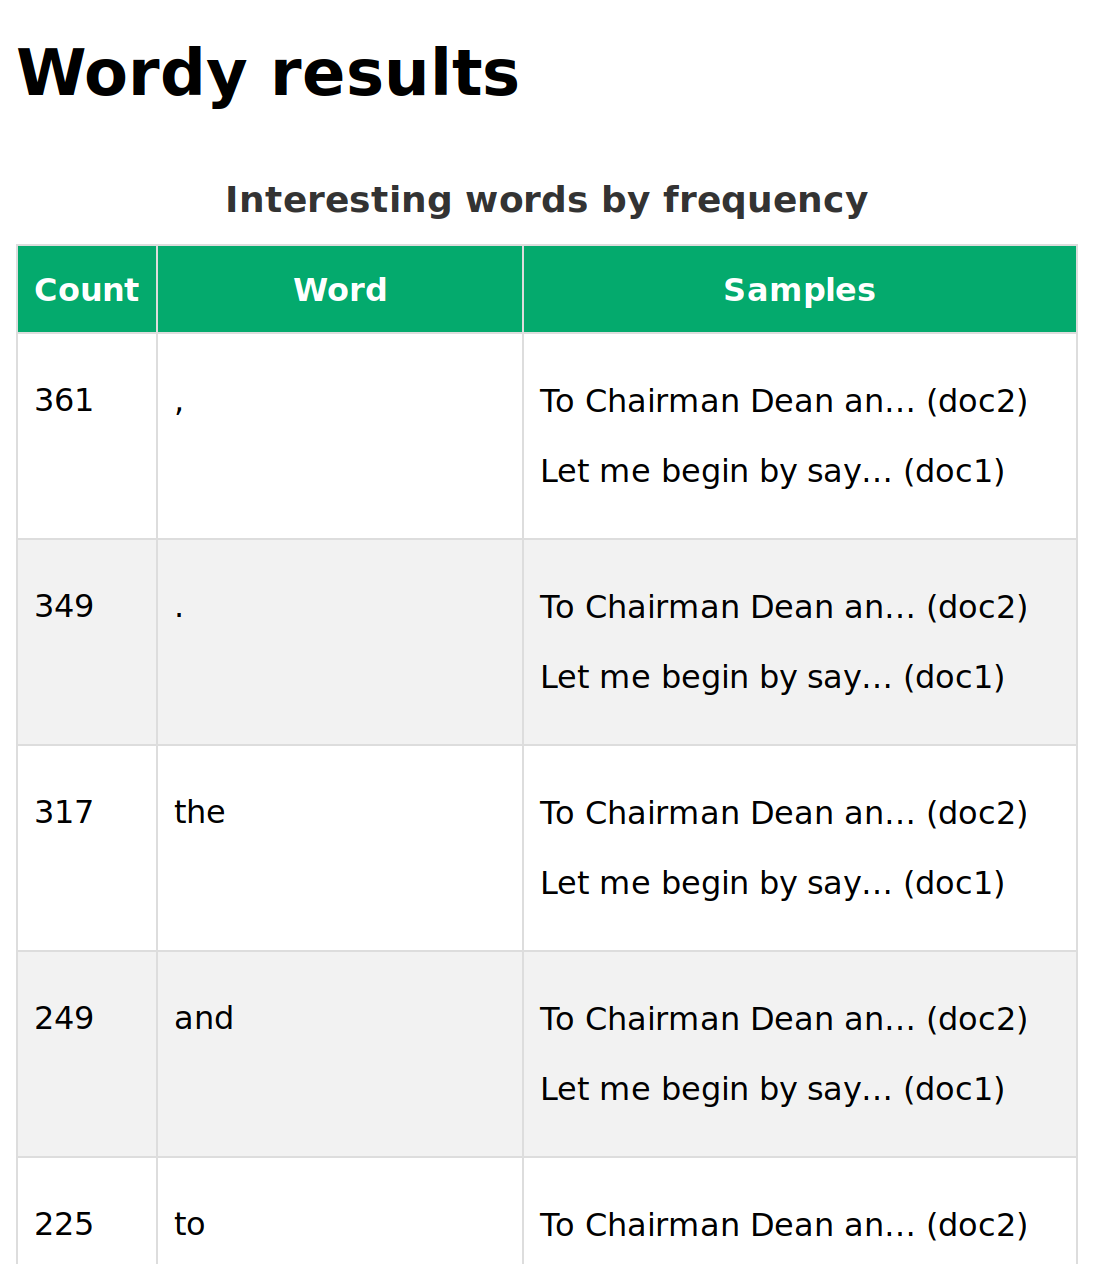
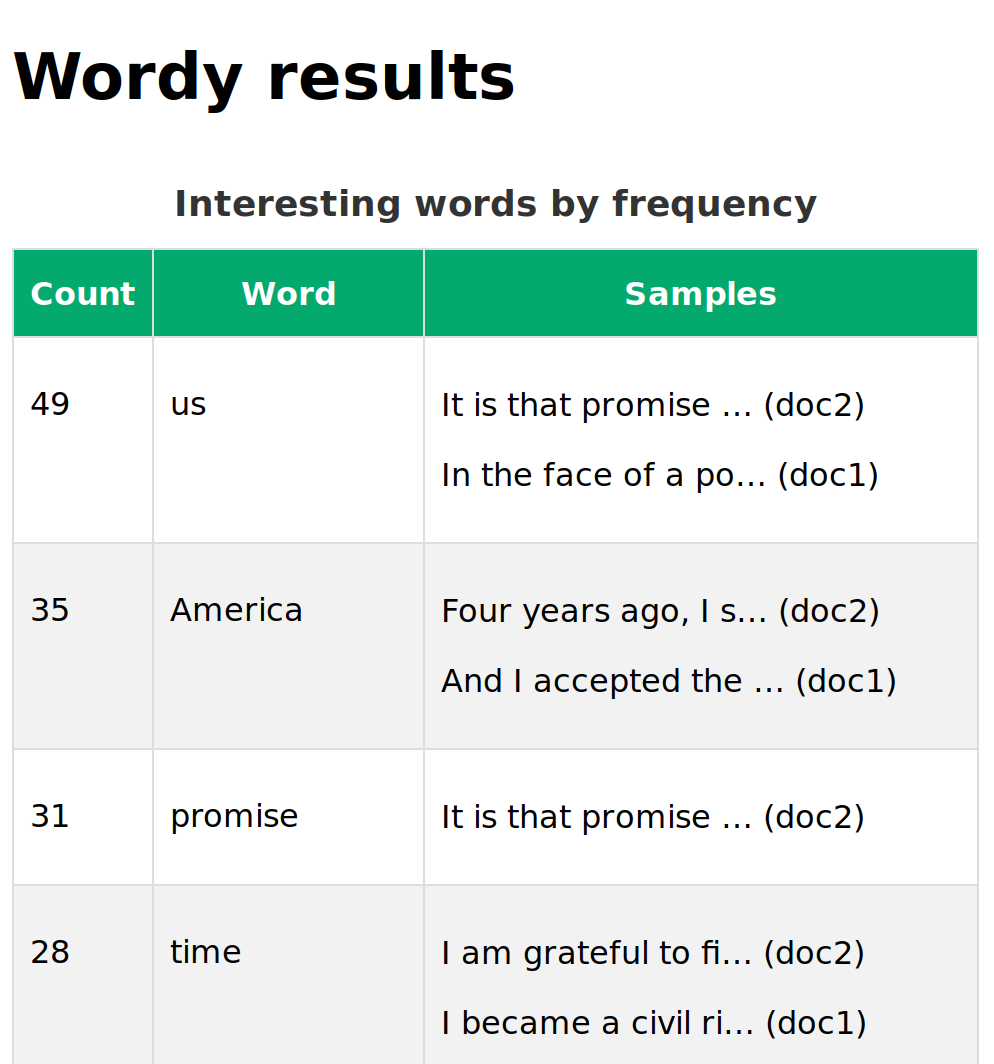
Remove stopwords and punctuation.

diff --git a/wordy/models.py b/wordy/models.py
@@ -1,9 +1,12 @@
 import os
+
+from django.conf import settings
+from django.db import models
 from nltk import FreqDist
+from nltk.corpus import stopwords
 from nltk.tokenize import word_tokenize, sent_tokenize
 
-from django.db import models
-from django.conf import settings
+english_stop_words = set(stopwords.words("english"))
 
 
 class Document(models.Model):
@@ -46,9 +49,10 @@ class Document(models.Model):
 
         # save each word count, along with a sample sentence
         for word, count in frequencies.items():
-            sentence = Document.first_sentence_with_word(word, full_sentences)
-            wr = WordResult(name=word, document=self, count=count, sample=sentence)
-            wr.save()
+            if word.isalpha() and word.casefold() not in english_stop_words:
+                sentence = Document.first_sentence_with_word(word, full_sentences)
+                wr = WordResult(name=word, document=self, count=count, sample=sentence)
+                wr.save()
 
 
 class WordResult(models.Model):

diff --git a/README.md b/README.md
@@ -19,6 +19,10 @@ Then display words sorted by frequency
 And display a sample sentence from each document
 ```
 
+### Notable features
+
+* Stopwords are removed
+
 ### Sample output
 
 | Word       | Count | Samples                                             |
@@ -37,6 +41,7 @@ And display a sample sentence from each document
 * Database instance (i.e. other than SQLite)
 * File upload
 * Fully offline operation
+* Languages other than English (American spelling?)
 * Microservice architecture
 * REST API
 
@@ -75,7 +80,10 @@ path of an empty folder, for example `/var/www/media`
    # start Django site
    ```
 
-3. Open http://localhost:8080 in your browser to see results
+3. Open http://localhost:8080/wordy/ in your browser to see results
+
+4. Hover over a sample to see the full sentence containing the
+   interesting word.
 
 **Notes**
 
@@ -83,6 +91,6 @@ path of an empty folder, for example `/var/www/media`
   http://localhost:8080/admin/ and log in with the superuser
   credentials created above.
 
-* To parse documents, visit the admin site and create a
-  document with the same name as a text file in the MEDIA
+* To upload documents, visit the admin site and create a
+  document entry with the same name as a text file in the MEDIA
   folder. For example, `doc1` for `doc1.txt`

diff --git a/TODO.md b/TODO.md
@@ -3,7 +3,7 @@ HIGH
 * ~~Parse document on save~~
 * ~~Collate and display results~~
 * Upload document?
-* Remove stopwords and punctuation?
+* ~~Remove stopwords and punctuation~~
 * Unit tests
 
 MEDIUM
@@ -16,3 +16,5 @@ MEDIUM
 LOW
 
 * Add black/tidy instructions
+* Expand contractions
+* Link to document view
